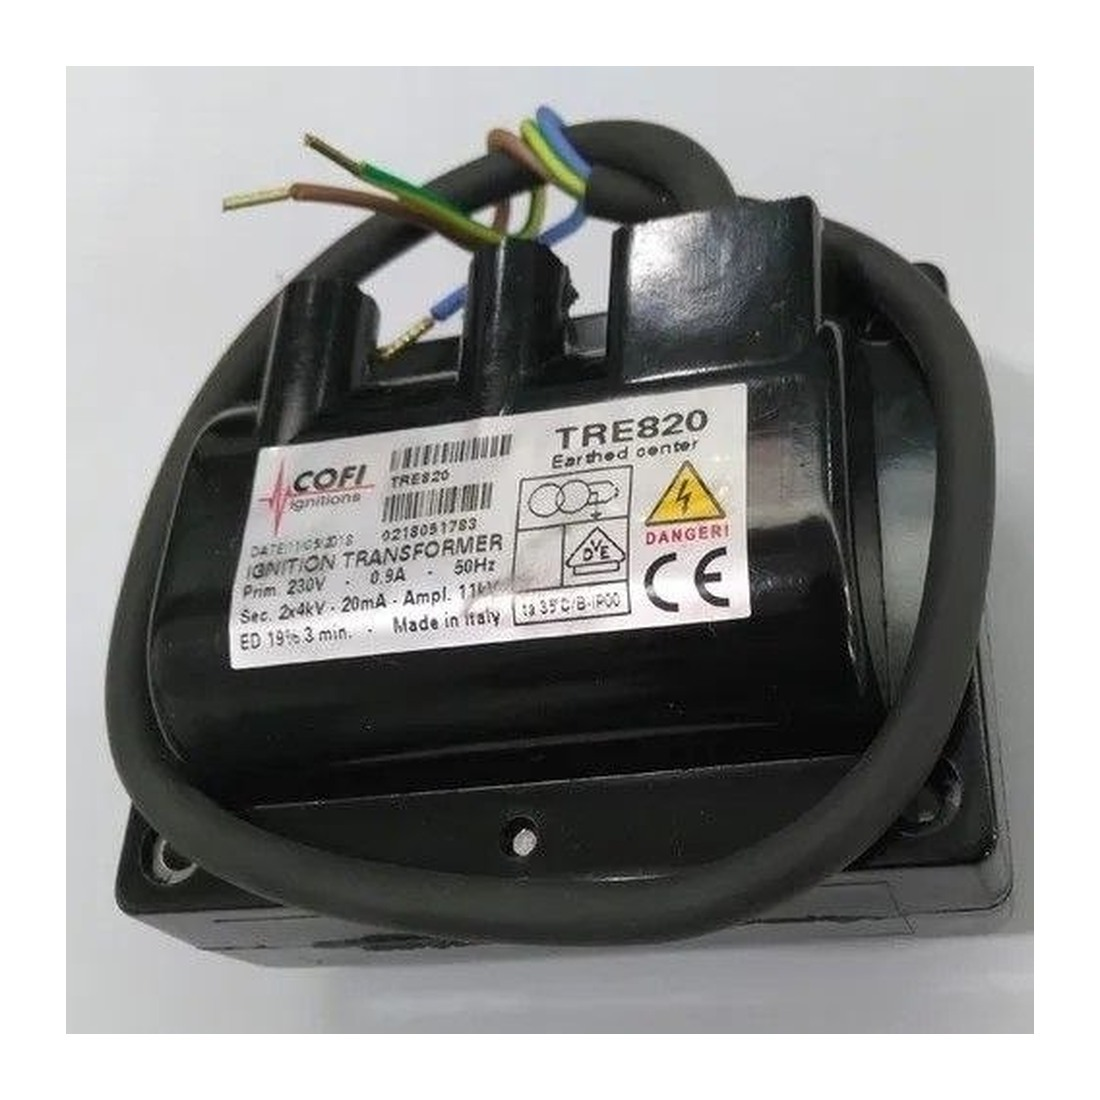
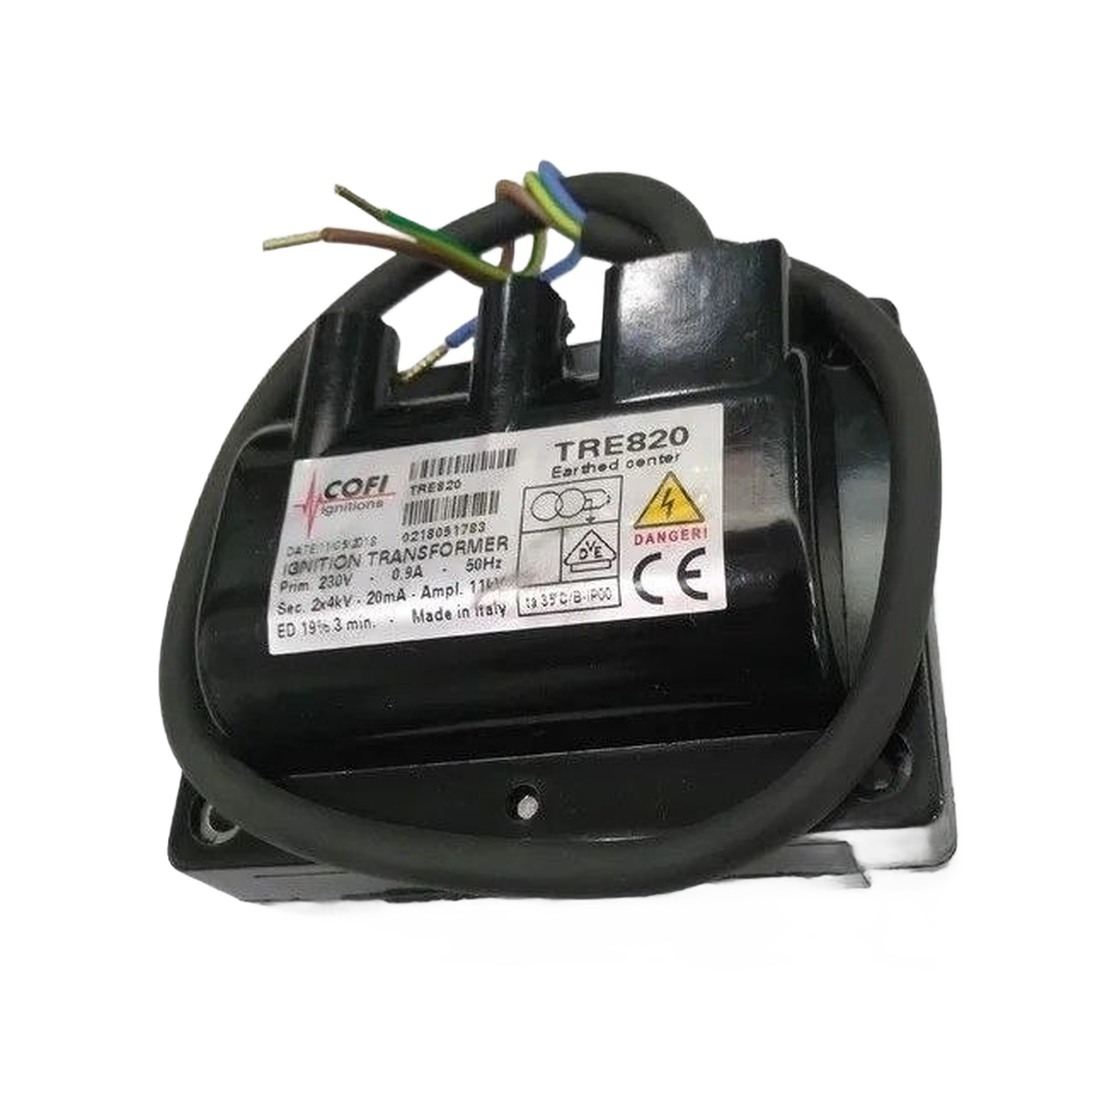
Update Cofi TRE820: cleaner transparent-bg photo + correct Product Code (0218051783, was misread as 021809783)
Claude-Session: https://claude.ai/code/session_019Q8BFS68TSdUejhrjheaPG

diff --git a/products/cofi-tre820.html b/products/cofi-tre820.html
@@ -7,7 +7,7 @@
 <link rel="icon" type="image/png" sizes="32x32" href="../images/favicon-32.png">
 <link rel="apple-touch-icon" sizes="180x180" href="../images/apple-touch-icon-180.png">
 <title>Cofi Ignition Transformer TRE820 | RKIC Surat</title>
-<meta name="description" content="Cofi Ignition Transformer TRE820 — Ignition Transformers. Type: TRE820. Product Code: 021809783. Primary: 230V, 0.9A, 50Hz. – RKIC Surat.">
+<meta name="description" content="Cofi Ignition Transformer TRE820 — Ignition Transformers. Type: TRE820. Product Code: 0218051783. Primary: 230V, 0.9A, 50Hz. – RKIC Surat.">
 <meta name="keywords" content="Cofi, TRE820, Ignition Transformers, Cofi Ignition Transformer TRE820, Surat, Gujarat, India, industrial instruments">
 <link rel="canonical" href="https://rkic1976-bot.github.io/RKIC-SITE/products/cofi-tre820.html">
 <meta property="og:type" content="product">
@@ -555,7 +555,7 @@ footer{ background:var(--steel); color:var(--ink); margin-top:56px; }
       <div class="pg-code mono">Product Code: TRE820 · Flying leads</div>
       <div class="pg-specs">
 <div class="pg-spec-row"><span class="pg-spec-k">Type</span><span class="pg-spec-v">TRE820</span></div>
-<div class="pg-spec-row"><span class="pg-spec-k">Product Code</span><span class="pg-spec-v">021809783</span></div>
+<div class="pg-spec-row"><span class="pg-spec-k">Product Code</span><span class="pg-spec-v">0218051783</span></div>
 <div class="pg-spec-row"><span class="pg-spec-k">Configuration</span><span class="pg-spec-v">Earthed Center</span></div>
 <div class="pg-spec-row"><span class="pg-spec-k">Primary</span><span class="pg-spec-v">230V, 0.9A, 50Hz</span></div>
 <div class="pg-spec-row"><span class="pg-spec-k">Secondary</span><span class="pg-spec-v">2 x 4kV, 20mA, Ampl. 11kV</span></div>

diff --git a/index.html b/index.html
@@ -2199,7 +2199,7 @@
       image: 'images/cofi-tre820-large.jpg',
       specs: {
         'Type': 'TRE820',
-        'Product Code': '021809783',
+        'Product Code': '0218051783',
         'Configuration': 'Earthed Center',
         'Primary': '230V, 0.9A, 50Hz',
         'Secondary': '2 x 4kV, 20mA, Ampl. 11kV',
